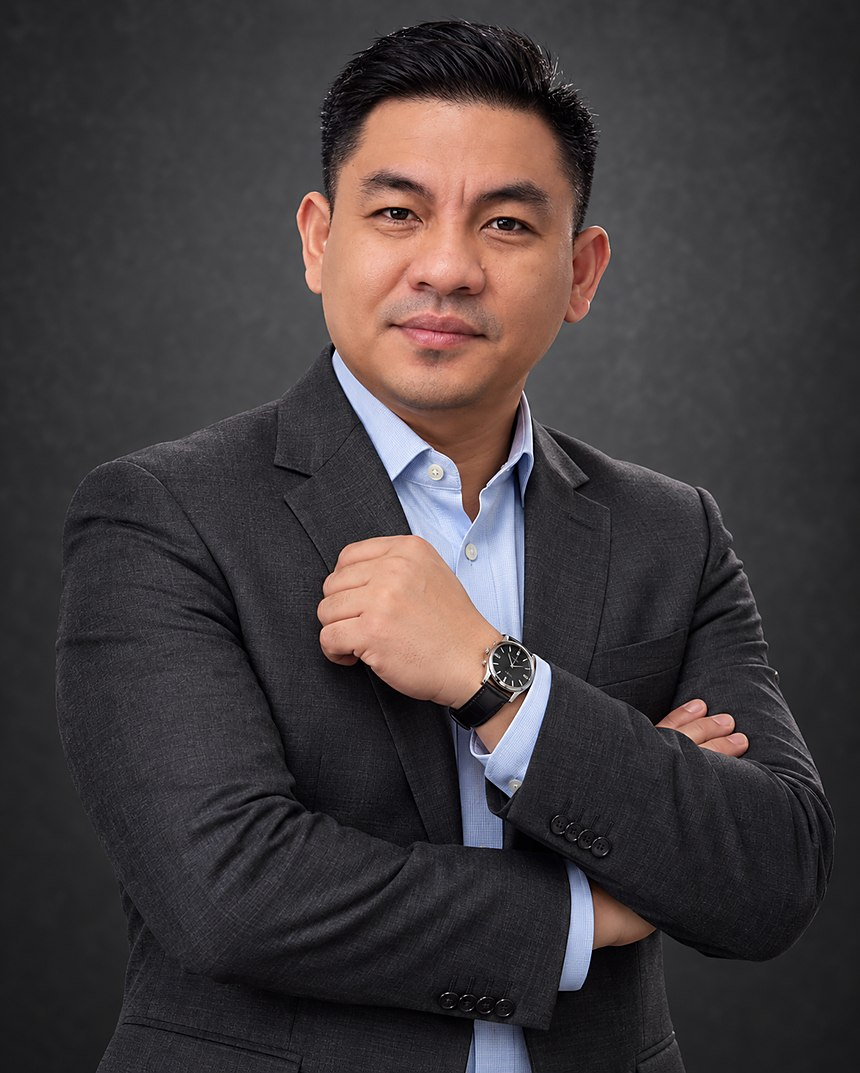
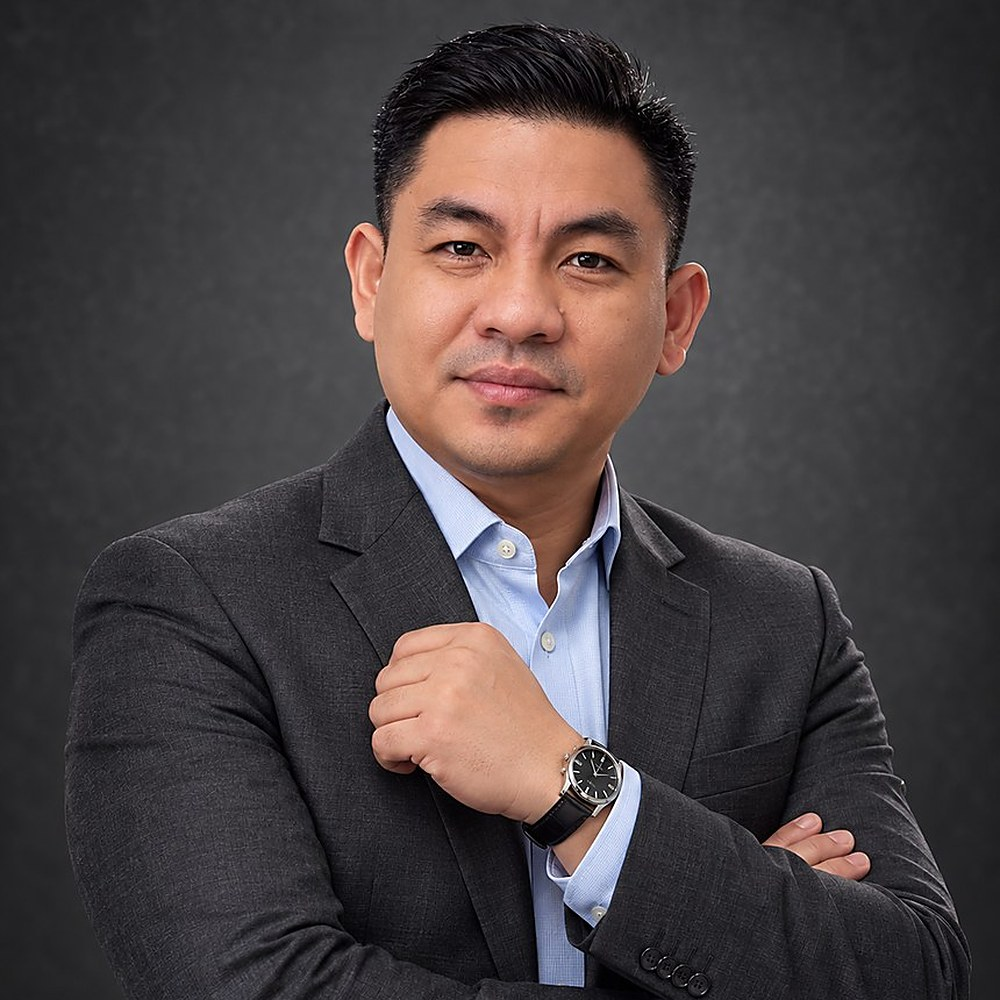
Add files via upload

diff --git a/styles.css b/styles.css
@@ -370,7 +370,7 @@ html[data-theme="light"] .hero-bg {
 .avatar-ring {
   position: relative;
   padding: 6px;
-  border-radius: 26px;
+  border-radius: 50%;
   background: linear-gradient(160deg, var(--accent), var(--accent-2));
   box-shadow: var(--shadow);
   animation: float 5s ease-in-out infinite;
@@ -379,7 +379,7 @@ html[data-theme="light"] .hero-bg {
   content: "";
   position: absolute;
   inset: -10px;
-  border-radius: 32px;
+  border-radius: 50%;
   border: 1px solid var(--accent-2);
   opacity: 0.4;
   animation: pulse-ring 3s ease-in-out infinite;
@@ -393,11 +393,11 @@ html[data-theme="light"] .hero-bg {
   0%, 100% { transform: scale(1); opacity: 0.4; }
   50% { transform: scale(1.06); opacity: 0.15; }
 }
-.avatar-ring-inner { border-radius: 22px; background: var(--bg); }
+.avatar-ring-inner { border-radius: 50%; background: var(--bg); }
 .avatar {
-  width: 268px;
-  height: 335px;
-  border-radius: 20px;
+  width: 250px;
+  height: 250px;
+  border-radius: 50%;
   background: radial-gradient(circle at 30% 30%, var(--accent-soft), var(--bg) 70%);
   color: var(--ink);
   display: flex;
@@ -407,7 +407,7 @@ html[data-theme="light"] .hero-bg {
   font-weight: 800;
   overflow: hidden;
 }
-.avatar img { width: 100%; height: 100%; border-radius: 20px; object-fit: cover; display: block; }
+.avatar img { width: 100%; height: 100%; border-radius: 50%; object-fit: cover; display: block; }
 
 .stat-row {
   margin-top: 44px;
@@ -717,7 +717,7 @@ html[data-theme="light"] .hero-bg {
   .about-grid { grid-template-columns: 1fr; }
   .contact-grid { grid-template-columns: 1fr; }
   .section { padding: 46px 0; }
-  .avatar { width: 210px; height: 263px; font-size: 2.2rem; }
+  .avatar { width: 210px; height: 210px; font-size: 2.2rem; }
   .btn-ghost.btn-small span, #resume-download { font-size: 0.8rem; }
 }
 
